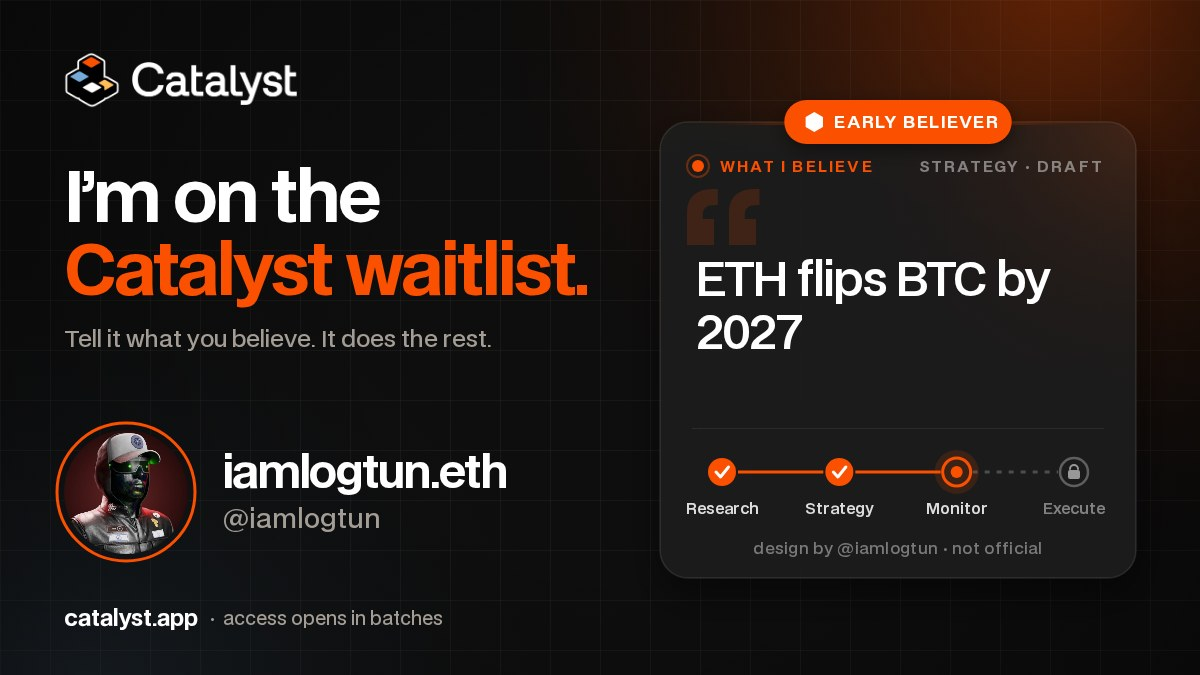
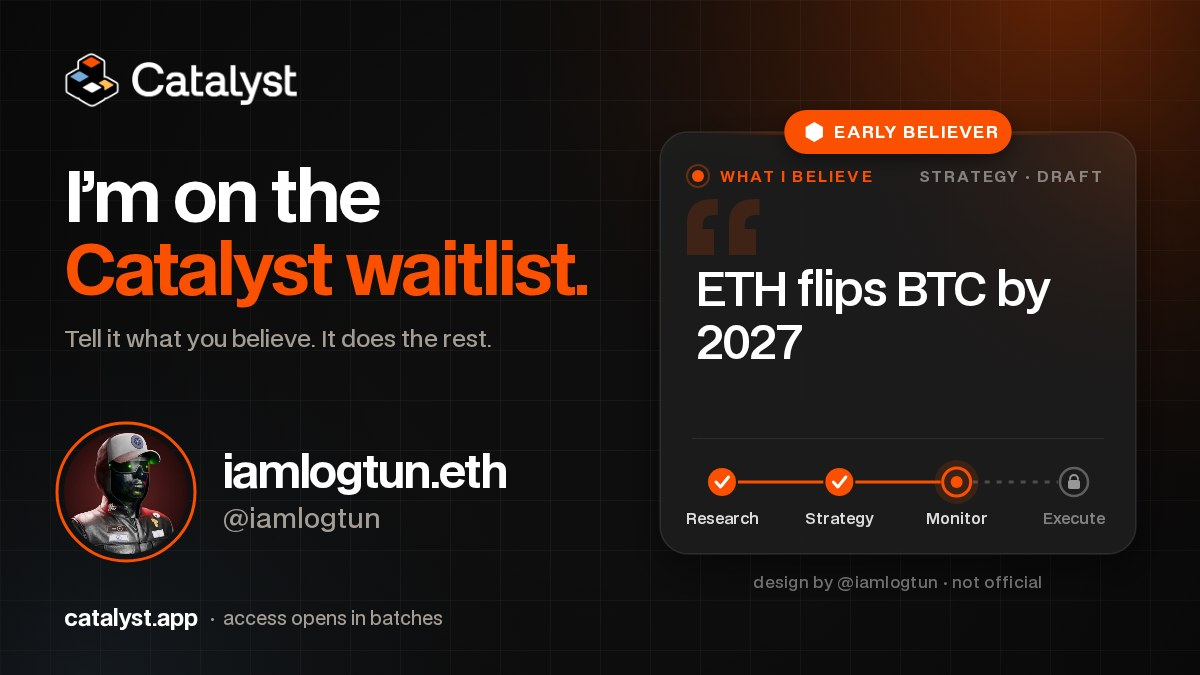
Card: move 'design by' credit just below the What I believe box

Changed region(s): [[0.555, 0.1244, 0.925, 0.5289], [0.555, 0.6533, 0.925, 0.7778], [0.6167, 0.8089, 0.8633, 0.8711]]

diff --git a/index.html b/index.html
@@ -10,21 +10,21 @@
 <meta property="og:url" content="https://catalyst-waitlist-card.vercel.app/">
 <meta property="og:title" content="I’m on the Catalyst waitlist. Make your hype card">
 <meta property="og:description" content="Your name, your belief, your card. Generate a shareable Catalyst waitlist card for X in seconds.">
-<meta property="og:image" content="https://catalyst-waitlist-card.vercel.app/og.jpg?v=6">
+<meta property="og:image" content="https://catalyst-waitlist-card.vercel.app/og.jpg?v=7">
 <meta property="og:image:width" content="1200">
 <meta property="og:image:height" content="675">
 <meta property="og:image:alt" content="A sample Catalyst waitlist hype card">
 <meta name="twitter:card" content="summary_large_image">
 <meta name="twitter:title" content="I’m on the Catalyst waitlist. Make your hype card">
 <meta name="twitter:description" content="Your name, your belief, your card. Generate a shareable Catalyst waitlist card for X in seconds.">
-<meta name="twitter:image" content="https://catalyst-waitlist-card.vercel.app/og.jpg?v=6">
+<meta name="twitter:image" content="https://catalyst-waitlist-card.vercel.app/og.jpg?v=7">
 <link rel="icon" href="favicon.svg" type="image/svg+xml">
 <link rel="icon" href="favicon-96.png" sizes="96x96" type="image/png">
 <link rel="apple-touch-icon" href="apple-touch-icon.png">
 <link rel="preconnect" href="https://api.fxtwitter.com" crossorigin>
 <link rel="preconnect" href="https://pbs.twimg.com" crossorigin>
 <link rel="preload" href="assets/bdo-grotesk.woff2" as="font" type="font/woff2" crossorigin>
-<link rel="stylesheet" href="styles.css?v=17">
+<link rel="stylesheet" href="styles.css?v=18">
 </head>
 <body>
 <div class="bg-grid" aria-hidden="true"></div>
@@ -159,7 +159,7 @@
 <div class="toast" id="toast" role="status" aria-live="polite"></div>
 
 <script src="wall.js?v=1" defer></script>
-<script src="app.js?v=17" defer></script>
+<script src="app.js?v=18" defer></script>
 <script src="gate.js?v=1" defer></script>
 </body>
 </html>

diff --git a/app.js b/app.js
@@ -200,7 +200,7 @@ function draw() {
   ctx.fillText("@" + handle, 223, acy + 36);
 
   // belief / strategy card
-  const cx = 660, cy = 122, cw = 476, ch = 456;
+  const cx = 660, cy = 132, cw = 476, ch = 422;
   ctx.save();
   ctx.shadowColor = "rgba(0,0,0,0.5)"; ctx.shadowBlur = 40; ctx.shadowOffsetY = 16;
   rr(cx, cy, cw, ch, 28); ctx.fillStyle = "rgba(18,18,18,0.92)"; ctx.fill();
@@ -303,10 +303,10 @@ function draw() {
   });
   ctx.lineCap = "butt"; ctx.lineJoin = "miter";
 
-  // credit: centred at the bottom inside the box
+  // credit: centred just below the box
   ctx.textAlign = "center"; ctx.textBaseline = "alphabetic";
   ctx.font = F(500, 16); setLS(0.3); ctx.fillStyle = "rgba(255,255,255,0.42)";
-  ctx.fillText("design by @iamlogtun · not official", cx + cw / 2, cy + ch - 24);
+  ctx.fillText("design by @iamlogtun · not official", cx + cw / 2, cy + ch + 34);
   setLS(0);
 
   // bottom strip
